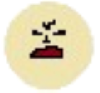
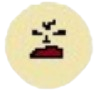
switched stuff from png to jpg

diff --git a/goat.py b/goat.py
@@ -7,7 +7,7 @@ class Goat(Sprite):
         self.screen = georgia.screen
         self.screen_rect = georgia.screen.get_rect()
         self.settings = georgia.settings
-        self.image = pygame.image.load("images/goat.png")
+        self.image = pygame.image.load("images/goat.jpg")
         self.rect = self.image.get_rect()
         self.rect.x = self.rect.width
         self.rect.y = self.rect.height
@@ -36,7 +36,7 @@ class Dog(Sprite):
         self.screen = georgia.screen
         self.screen_rect = georgia.screen.get_rect()
         self.settings = georgia.settings
-        self.image = pygame.image.load("images/dog.png")
+        self.image = pygame.image.load("images/dog.jpg")
         self.rect = self.image.get_rect()
         self.rect.x = self.rect.width
         self.rect.y = self.rect.height
@@ -64,7 +64,7 @@ class Cat(Sprite):
         self.screen = georgia.screen
         self.screen_rect = georgia.screen.get_rect()
         self.settings = georgia.settings
-        self.image = pygame.image.load("images/cat.png")
+        self.image = pygame.image.load("images/cat.jpg")
         self.rect = self.image.get_rect()
         self.rect.x = self.rect.width
         self.rect.y = self.rect.height
@@ -93,7 +93,7 @@ class Chicken(Sprite):
         self.screen = georgia.screen
         self.screen_rect = georgia.screen.get_rect()
         self.settings = georgia.settings
-        self.image = pygame.image.load("images/chicken.png")
+        self.image = pygame.image.load("images/chicken.jpg")
         self.rect = self.image.get_rect()
         self.rect.x = self.rect.width
         self.rect.y = self.rect.height
@@ -140,7 +140,7 @@ class Gojo(Sprite):
         self.screen = georgia.screen
         self.screen_rect = georgia.screen.get_rect()
         self.settings = georgia.settings
-        self.image = pygame.image.load("images/gojo.png")
+        self.image = pygame.image.load("images/gojo.jpg")
         self.rect = self.image.get_rect()
         self.rect.x = self.rect.width
         self.rect.y = self.rect.height

diff --git a/buttons.py b/buttons.py
@@ -12,12 +12,12 @@ class Buttons:
         self.prep_storage()
 
     def prep_task(self):
-        self.task = pygame.image.load("images/task_button.png")
+        self.task = pygame.image.load("images/task_button.jpg")
         self.task_rect = self.task.get_rect()
         self.task_rect.left = self.screen_rect.left + 30
         self.task_rect.bottom = self.screen_rect.bottom - 30
     def prep_storage(self):
-        self.storage = pygame.image.load("images/storage_button.png")
+        self.storage = pygame.image.load("images/storage_button.jpg")
         self.storage_rect = self.storage.get_rect()
         self.storage_rect.left = self.screen_rect.left + 30
         self.storage_rect.bottom = self.screen_rect.bottom - 140
@@ -34,11 +34,11 @@ class Effect:
         self.prep_item()
         
     def prep_task(self):
-        self.task = pygame.image.load("images/tasks.png")
+        self.task = pygame.image.load("images/tasks.jpg")
         self.task_rect = self.task.get_rect()
         self.task_rect.center = self.screen_rect.center
     def prep_item(self):
-        self.item = pygame.image.load("images/items.png")
+        self.item = pygame.image.load("images/items.jpg")
         self.item_rect = self.item.get_rect()
         self.item_rect.center = self.screen_rect.center
     
